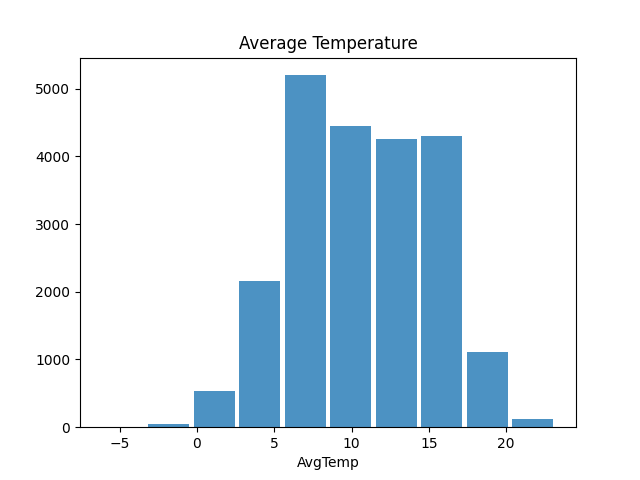
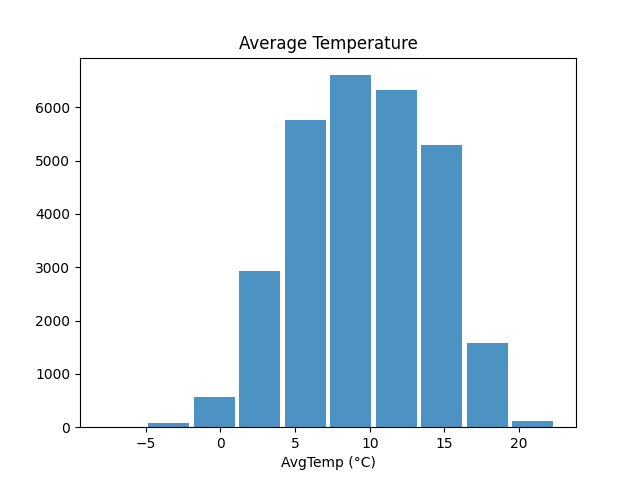
Read Time Series

diff --git a/DublinAirportAvgTempLinearAnalysis.py b/DublinAirportAvgTempLinearAnalysis.py
@@ -1,6 +1,10 @@
 # Imports.
-import os
+import LinearAnalysisFunctions as lf
+from statsmodels.graphics.tsaplots import plot_acf
+import matplotlib.pyplot as plt
 import pandas as pd
+import numpy as np
+import os
 
 filename = 'data/DublinAirport_Data.csv'
 
@@ -14,3 +18,18 @@ print("-------------------------------------------------------------------------
 print("Time Series:")
 data = data.drop("Unnamed: 0", axis=1)
 print(data)
+
+# Define Average Temperature Time Series.
+x = data.AvgTemp
+savepath = 'data/'
+value = 'AvgTemp (°C)'
+
+# Plot Average Temperature.
+lf.plot_timeseries(x, value, 'Average Temperature', savepath)
+plt.show()
+
+# Average Temperature Histogram.
+lf.plot_histogram(x, value, 'Average Temperature', savepath)
+plt.show()
+
+# Remove Trend
